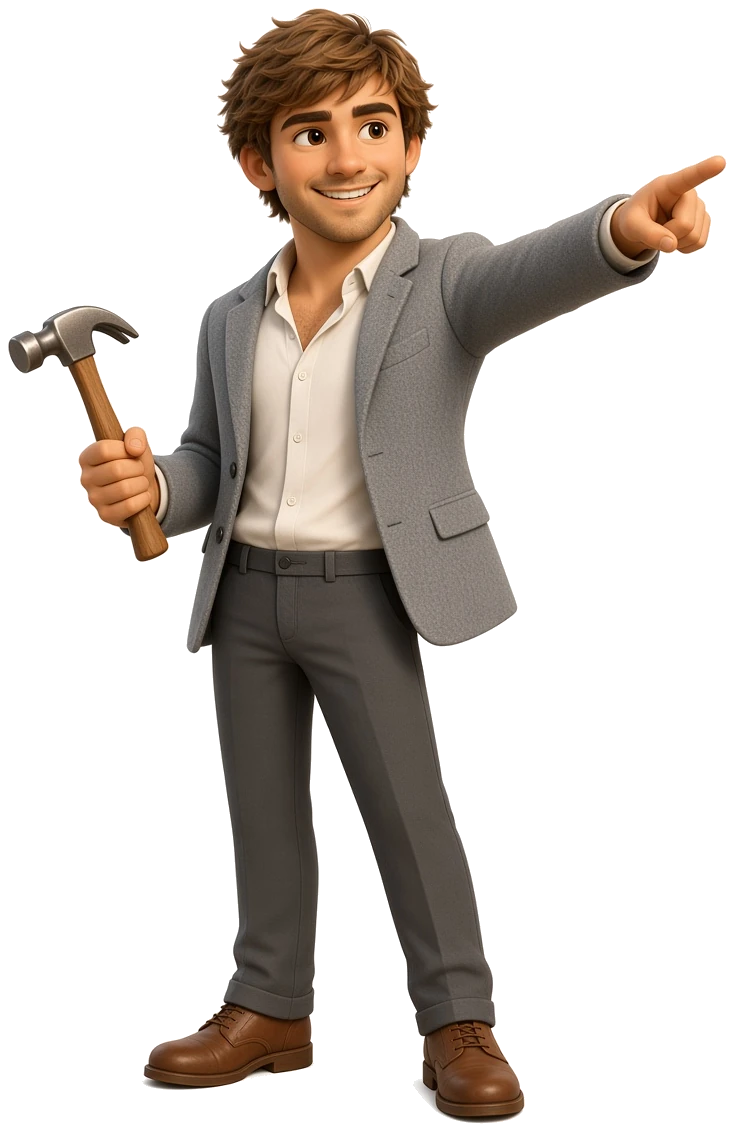
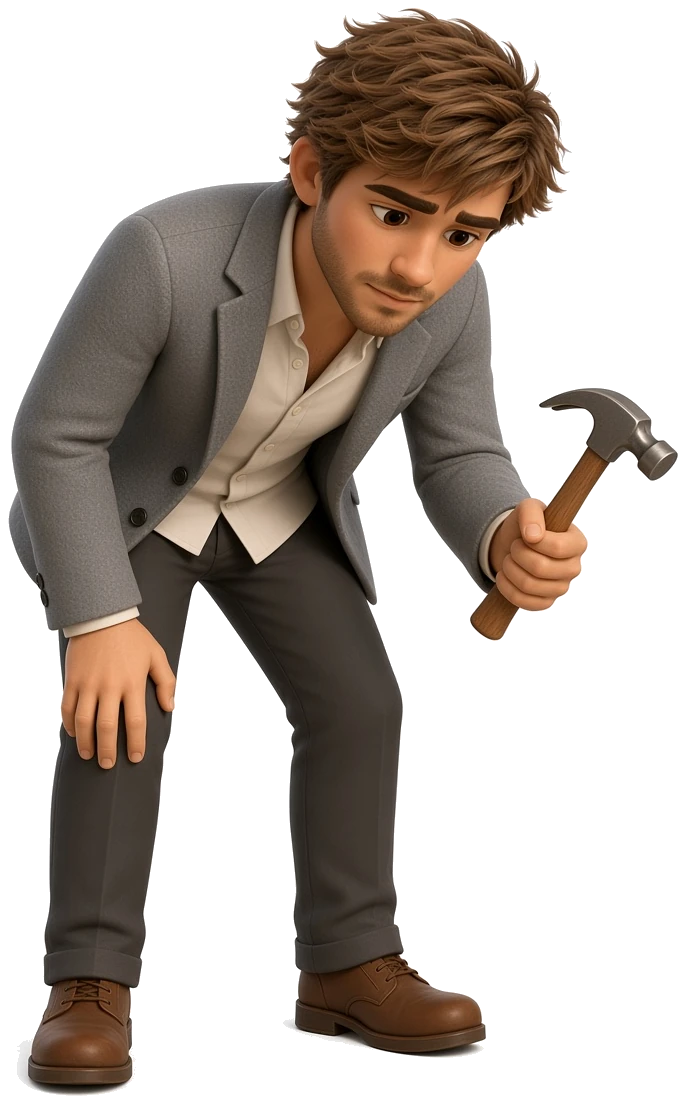
Scatter fold cartoons around the Show pill
Each section’s Pixar figure now sits in a different spot: beside,
sitting on top, peeking from behind, climbing on, bending over, or
leaning on the button.

diff --git a/src/portfolio/portfolio.css b/src/portfolio/portfolio.css
@@ -226,9 +226,9 @@
     border: 0;
 }
 
-/* Pixar-style figures sit in a cluster with Show/Hide — same slot on
-   every card, never a corner dog-ear. Decorative (aria-hidden). Track
-   Record and Contact keep the figure on the expanded eyebrow row. */
+/* Pixar-style figures cluster with Show/Hide — each in a different
+   spot around the pill (beside, on top, behind, bending over). Never
+   a corner dog-ear. Decorative (aria-hidden). */
 .pm-fold.has-cue {
     overflow: visible;
 }
@@ -239,6 +239,8 @@
     align-items: center;
     gap: 0;
     align-self: center;
+    position: relative;
+    overflow: visible;
 }
 
 .pm-fold-cue {
@@ -253,7 +255,7 @@
     width: 52px;
     height: 68px;
     object-fit: contain;
-    object-position: right bottom;
+    object-position: center bottom;
     display: block;
     filter: drop-shadow(0 3px 6px rgba(11, 14, 20, 0.16));
     transform-origin: 50% 100%;
@@ -267,6 +269,113 @@
 @keyframes pm-cue-bob {
     0%, 100% { transform: translateY(0); }
     50% { transform: translateY(-2px); }
+}
+
+/* Standing just left of the pill, pointing at it. */
+.pm-fold-cue--beside {
+    position: relative;
+    z-index: 3;
+}
+
+/* Sitting on top of the pill, legs overlapping it. */
+.pm-fold-cue--atop {
+    position: absolute;
+    left: 50%;
+    bottom: calc(100% - 14px);
+    transform: translateX(-50%);
+    z-index: 3;
+}
+.pm-fold-cue--atop .pm-cue-img {
+    width: 46px;
+    height: 60px;
+}
+
+/* Peeking from behind the left edge of the pill. */
+.pm-fold-cue--peek {
+    position: absolute;
+    right: 36px;
+    bottom: -10px;
+    z-index: 0;
+}
+.pm-fold-cue--peek .pm-cue-img {
+    width: 48px;
+    height: 64px;
+}
+
+/* Popping up from behind the pill. */
+.pm-fold-cue--pop {
+    position: absolute;
+    left: 50%;
+    bottom: 6px;
+    transform: translateX(-50%);
+    z-index: 0;
+}
+.pm-fold-cue--pop .pm-cue-img {
+    width: 56px;
+    height: 64px;
+}
+
+/* Bending over the pill from above. */
+.pm-fold-cue--bend {
+    position: absolute;
+    right: 8px;
+    bottom: -6px;
+    z-index: 3;
+}
+.pm-fold-cue--bend .pm-cue-img {
+    width: 50px;
+    height: 64px;
+}
+
+/* Climbing onto the pill. */
+.pm-fold-cue--climb {
+    position: absolute;
+    right: 22px;
+    bottom: -2px;
+    z-index: 3;
+}
+.pm-fold-cue--climb .pm-cue-img {
+    width: 54px;
+    height: 70px;
+}
+
+/* Leaning on the pill from the left. */
+.pm-fold-cue--lean {
+    position: absolute;
+    right: 28px;
+    bottom: -8px;
+    z-index: 3;
+}
+
+/* Draped over the left of the pill. */
+.pm-fold-cue--drape {
+    position: absolute;
+    right: 18px;
+    bottom: -10px;
+    z-index: 3;
+}
+.pm-fold-cue--drape .pm-cue-img {
+    width: 50px;
+    height: 66px;
+}
+
+/* Peeking from the right side of the pill. */
+.pm-fold-cue--peek-right {
+    position: absolute;
+    left: auto;
+    right: -22px;
+    bottom: -8px;
+    z-index: 3;
+}
+.pm-fold-cue--peek-right .pm-cue-img {
+    width: 44px;
+    height: 62px;
+}
+
+.pm-fold.has-cue--read,
+.pm-fold.has-cue--track,
+.pm-fold.has-cue--bulb {
+    padding-top: 22px;
 }
 
 /* Expanded: slim eyebrow-row control, original headings do the reading. */
@@ -367,6 +476,12 @@
     .pm-fold.is-open .pm-cue-img {
         width: 36px;
         height: 48px;
+    }
+    .pm-fold-cue--peek-right {
+        right: -6px;
+    }
+    .pm-fold-cue--atop {
+        bottom: calc(100% - 10px);
     }
 }
 

diff --git a/src/portfolio/FoldCue.jsx b/src/portfolio/FoldCue.jsx
@@ -1,8 +1,9 @@
 import React from 'react';
 
 /* One Pixar-style figure per section — the portfolio portrait as 3D
-   clay, pose/prop matching the section. Glued to Show/Hide, pointing
-   at the pill. Track Record and Contact keep theirs while expanded. */
+   clay, pose/prop matching the section. Clustered with Show/Hide, each
+   in a different spot around the pill. Track Record and Contact keep
+   theirs while expanded. */
 const POSE = {
     work: 'track',
     projects: 'execute',
@@ -31,6 +32,21 @@ const SRC = {
     coffee: '/assets/cues/coffee.webp'
 };
 
+/* How the figure sits around the Show/Hide pill. */
+const PLACE = {
+    execute: 'beside',
+    stairs: 'climb',
+    knot: 'peek',
+    read: 'atop',
+    wrench: 'bend',
+    proto: 'peek-right',
+    campus: 'lean',
+    bulb: 'pop',
+    speak: 'drape',
+    track: 'atop',
+    coffee: 'bend'
+};
+
 const OPEN_CUES = new Set(['work', 'contact']);
 
 export function cueVariant(sectionId, { open = false } = {}) {
@@ -40,8 +56,9 @@ export function cueVariant(sectionId, { open = false } = {}) {
 
 const FoldCue = ({ variant }) => {
     const src = SRC[variant] || SRC.execute;
+    const place = PLACE[variant] || 'beside';
     return (
-        <span className={`pm-fold-cue pm-fold-cue--figure pm-fold-cue--${variant}`} aria-hidden="true">
+        <span className={`pm-fold-cue pm-fold-cue--figure pm-fold-cue--${variant} pm-fold-cue--${place}`} aria-hidden="true">
             <img className="pm-cue-img" src={src} alt="" width="48" height="64" draggable="false" />
         </span>
     );
